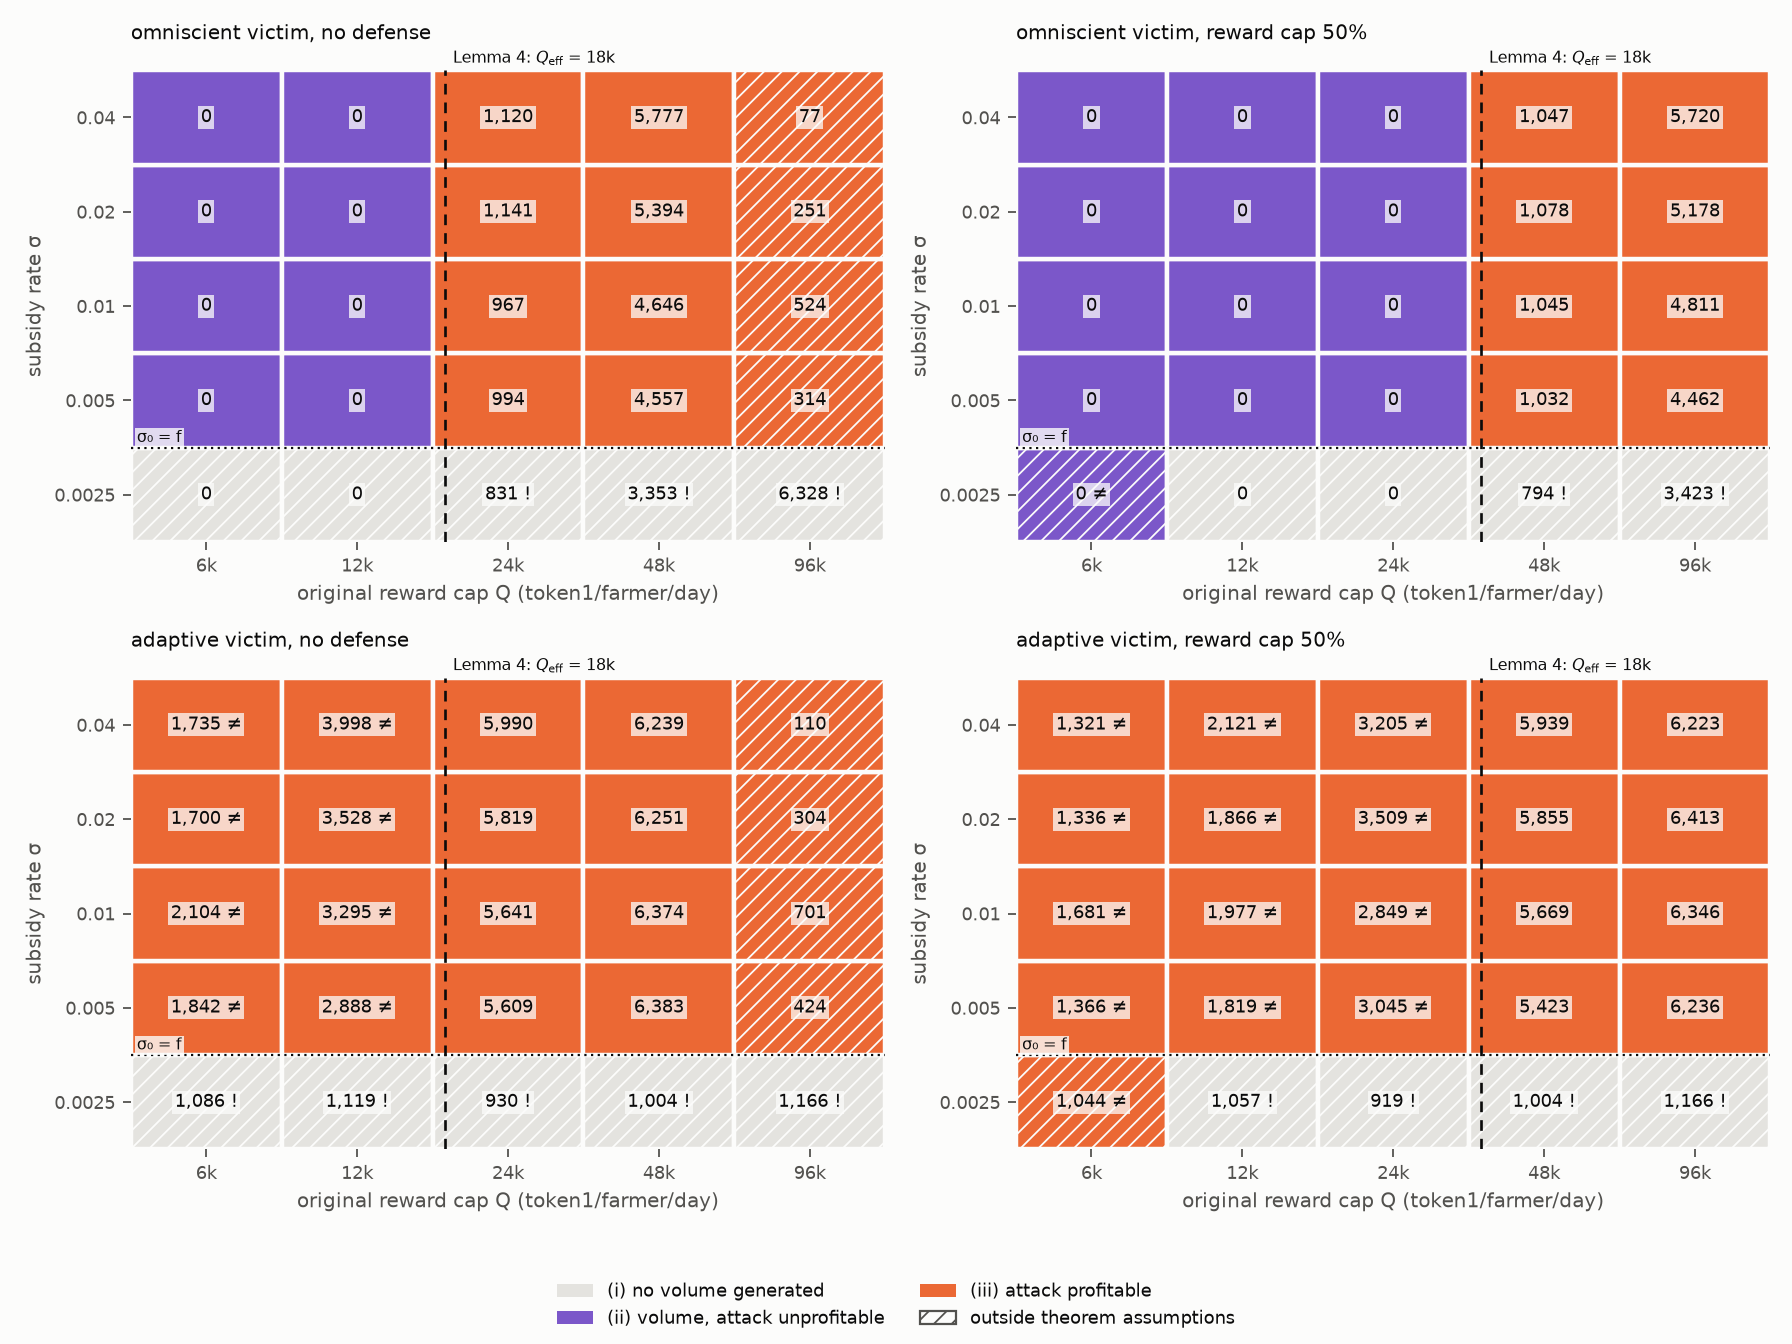
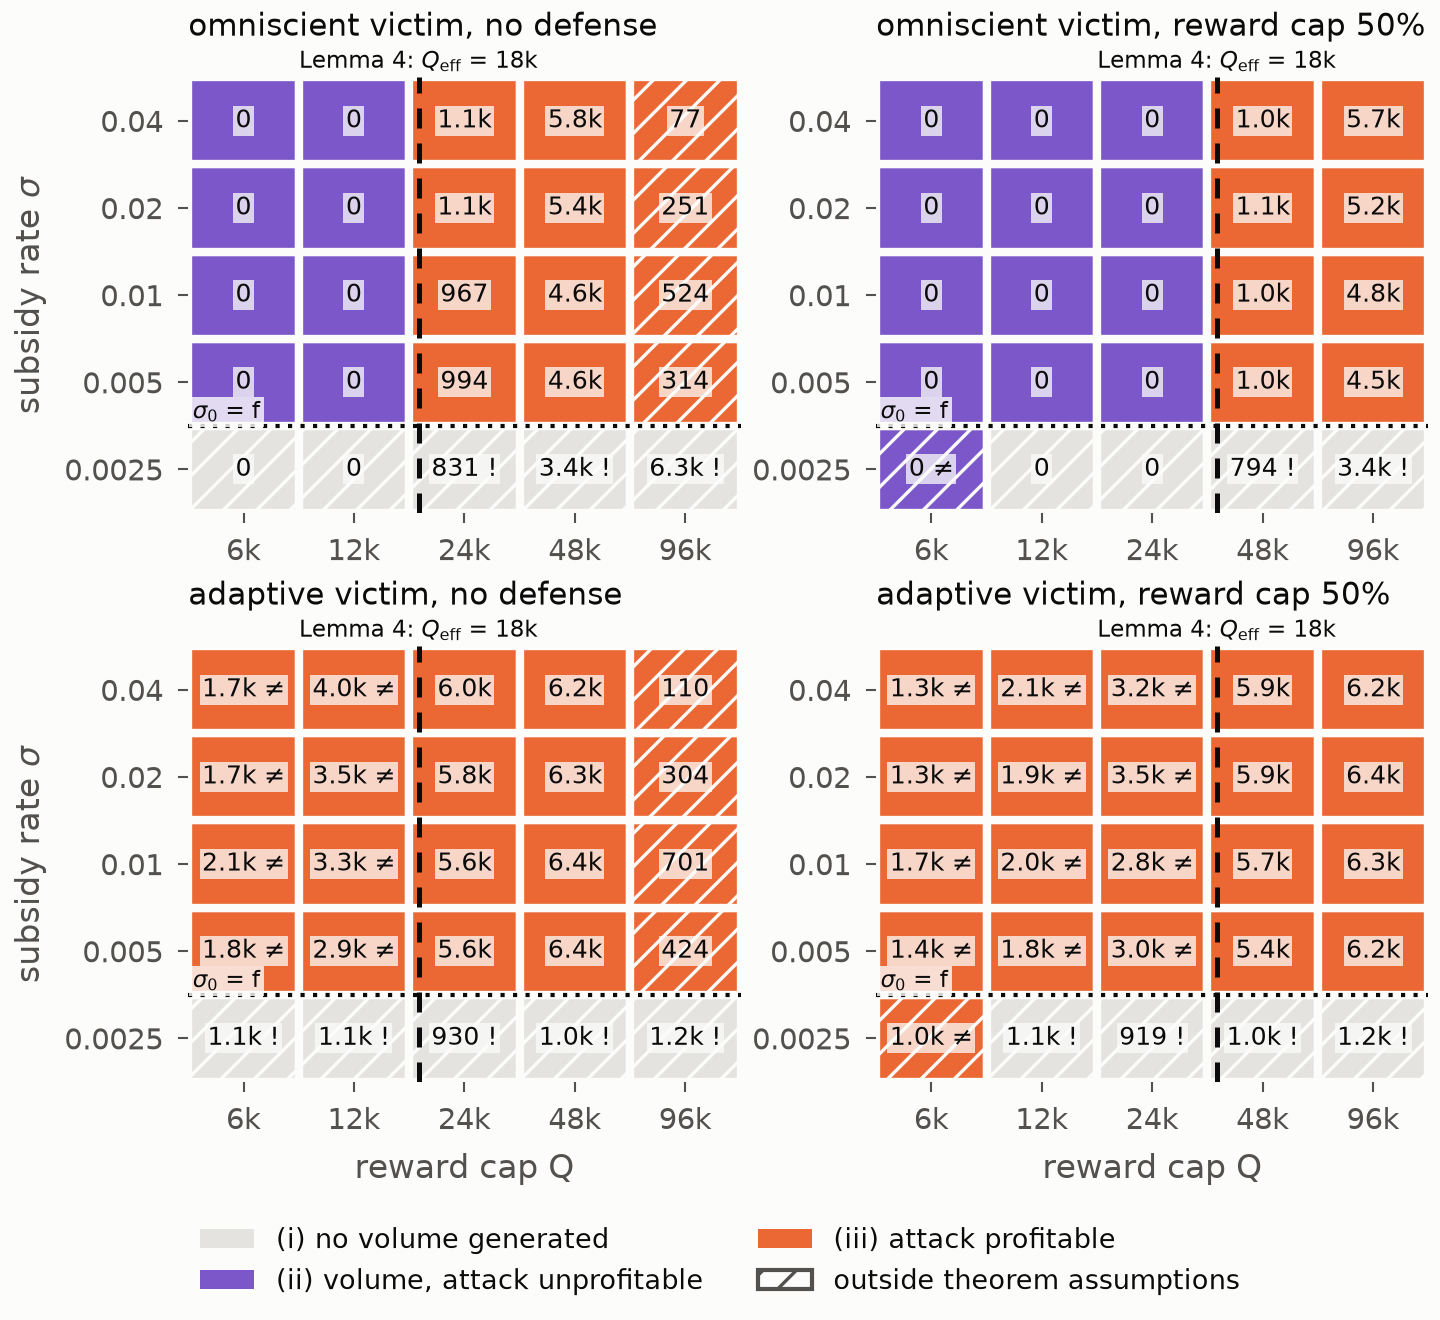
[B] Hình ba vùng theo khổ in; sửa số trợ cấp khi giữ tường 168 giờ (46–47%)

diff --git a/plots/hinh_gd2.py b/plots/hinh_gd2.py
@@ -294,7 +294,12 @@ def ve_ba_vung(bv: pd.DataFrame, path: str | Path, tieu_de: str = "") -> None:
     buộc hoặc GĐ2 giá rời tick); dấu ≠ = khác vùng lý thuyết; dấu ! = vùng (i) mà kẻ tấn công vẫn có lãi;
     vạch đứt = ranh giới Lemma 4 Q_eff = c_V·L_A/(f·n)."""
     vts, bps = ["omniscient", "adaptive"], [b for b in ("khong", "cap50") if b in set(bv["bp"])]
-    fig, axs = _hinh(len(vts), len(bps), (5.6 * len(bps), 4.2 * len(vts)), squeeze=False)
+    IN = H.IN
+    fig, axs = _hinh(len(vts), len(bps), (4.8, 4.4) if IN else (5.6 * len(bps), 4.2 * len(vts)), squeeze=False)
+
+    def _so(v: float) -> str:                                   # kiểu in: ≥ 1000 viết "5.8k" cho vừa ô
+        return f"{v / 1000:.1f}k" if IN and abs(v) >= 1000 else so_vn(v, 0)
+
     for i, vt in enumerate(vts):
         for j, bp in enumerate(bps):
             ax = axs[i, j]
@@ -305,36 +310,38 @@ def ve_ba_vung(bv: pd.DataFrame, path: str | Path, tieu_de: str = "") -> None:
                 ngoai = bool(r.get("ngoai_gia_dinh", False))
                 ax.add_patch(plt.Rectangle((b - 0.5, a - 0.5), 1, 1, facecolor=MAU_VUNG[r["vung"]], edgecolor=NEN,
                                            linewidth=2, hatch="///" if ngoai else None))
-                chu = (so_vn(r["loi"], 0) + ("" if r["khop_ly_thuyet"] else " ≠")
+                chu = (_so(r["loi"]) + ("" if r["khop_ly_thuyet"] else " ≠")
                        + (" !" if r["vung"] == "i_khong_KL" and r["loi"] > 0 else ""))
-                ax.text(b, a, chu, ha="center", va="center", fontsize=8,
-                        color=CHU, bbox=dict(facecolor=NEN, edgecolor="none", alpha=0.75, pad=1.2))
+                ax.text(b, a, chu, ha="center", va="center", fontsize=6 if IN else 8,
+                        color=CHU, bbox=dict(facecolor=NEN, edgecolor="none", alpha=0.75, pad=0.6 if IN else 1.2))
             # ranh giới Lemma 4: k_eff = k/r = 1 ⇔ Q = Q_ref·0,75/r, nội suy trên trục log Q
             k0 = g.iloc[0]
             q_nguong = k0["k"] * k0["Q"] / k0["r"]
             xq = np.interp(np.log(q_nguong), np.log(Qs), range(len(Qs)))
             ax.axvline(xq, color=CHU, linewidth=1.2, linestyle=(0, (4, 3)))
-            ax.text(xq + 0.05, len(sg) - 0.5 + 0.04, rf"Lemma 4: $Q_{{\mathrm{{eff}}}}$ = {q_nguong * k0['r'] / 1000:g}k", fontsize=7,
-                    color=CHU, va="bottom")
+            ax.text(xq if IN else xq + 0.05, len(sg) - 0.5 + 0.04, rf"Lemma 4: $Q_{{\mathrm{{eff}}}}$ = {q_nguong * k0['r'] / 1000:g}k", fontsize=5.5 if IN else 7,
+                    color=CHU, va="bottom", ha="center" if IN else "left")
             ax.axhline(0.5, color=CHU, linewidth=1.0, linestyle=(0, (1, 2)))
-            ax.text(-0.46, 0.52, "σ₀ = f", fontsize=7, color=CHU, ha="left", va="bottom",
+            ax.text(-0.46, 0.52, r"$\sigma_0$ = f", fontsize=5.5 if IN else 7, color=CHU, ha="left", va="bottom",
                     bbox=dict(facecolor=NEN, edgecolor="none", alpha=0.8, pad=0.8))
             ax.set_xlim(-0.5, len(Qs) - 0.5)
             ax.set_ylim(-0.5, len(sg) - 0.5)
             ax.set_xticks(range(len(Qs)), [f"{q / 1000:g}k" for q in Qs])
             ax.set_yticks(range(len(sg)), [so_vn(s) for s in sg])
-            ax.set_xlabel("original reward cap Q (token1/farmer/day)", color=CHU_PHU)
-            ax.set_ylabel("subsidy rate σ", color=CHU_PHU)
-            ax.tick_params(colors=CHU_PHU, labelsize=8)
+            ax.set_xlabel("original reward cap Q (token1/farmer/day)" if not IN else (
+                "reward cap Q" if i == len(vts) - 1 else ""), color=CHU_PHU, fontsize=8 if IN else None)
+            ax.set_ylabel(r"subsidy rate $\sigma$" if (IN and j == 0) or not IN else "", color=CHU_PHU,
+                          fontsize=8 if IN else None)
+            ax.tick_params(colors=CHU_PHU, labelsize=7 if IN else 8)
             for s in ax.spines.values():
                 s.set_visible(False)
             ax.set_title(f"{TEN_VICTIM[vt]}, {'no defense' if bp == 'khong' else 'reward cap 50%'}",
-                         loc="left", fontsize=9, color=CHU, pad=14)
+                         loc="left", fontsize=7.5 if IN else 9, color=CHU, pad=10 if IN else 14)
     h = [plt.Rectangle((0, 0), 1, 1, facecolor=MAU_VUNG[k], label=TEN_VUNG[k]) for k in MAU_VUNG]
     h.append(plt.Rectangle((0, 0), 1, 1, facecolor=NEN, edgecolor=CHU_PHU, hatch="///",
                            label="outside theorem assumptions"))
-    fig.legend(handles=h, loc="lower center", bbox_to_anchor=(0.5, 0.0), ncol=2, frameon=False, fontsize=8,
+    fig.legend(handles=h, loc="lower center", bbox_to_anchor=(0.5, 0.0), ncol=2, frameon=False, fontsize=6.5 if IN else 8,
                labelcolor=CHU)
-    fig.tight_layout(rect=(0, 0.08, 1, 1))
-    fig.savefig(path, dpi=DPI, facecolor=NEN)
+    fig.tight_layout(rect=(0, 0.09 if IN else 0.08, 1, 1), pad=0.4 if IN else 1.08)
+    fig.savefig(path, dpi=H.dpi(), facecolor=NEN)
     plt.close(fig)

diff --git a/plots/ve_gd2.py b/plots/ve_gd2.py
@@ -27,7 +27,8 @@ def main(gd2: str = "ket_qua/gd2", phien: str = "v4") -> list[Path]:
                    "(b) small-k region": pd.read_csv(bang / "danh_doi_knho.csv")}, f["pareto"])
     fm = pd.read_csv(bang / "danh_doi_farm.csv")
     ve_danh_doi_farm(fm[fm["farm_share"] > 0], f["danh_doi_farm"])
-    ve_ba_vung(pd.read_csv(bang / "ba_vung.csv"), f["ba_vung"])
+    with in_bai():
+        ve_ba_vung(pd.read_csv(bang / "ba_vung.csv"), f["ba_vung"])
     ve_q_sao(pd.read_csv(bang / "q_sao_vu.csv"), f["q_sao"])
     ve_q_sao(pd.read_csv(bang / "q_sao_vu_knho.csv"), f["q_sao_knho"])
     return list(f.values())

diff --git a/SYNC.md b/SYNC.md
@@ -28,7 +28,7 @@ Mỗi phiên **chỉ sửa mục của vai mình** (đọc lại file trước k
 - **Nhận định CH:** lợi nhuận tăng thêm của tấn công chỉ 2,4% paper ở bộ RQ1 (victim nhỏ: L_V/L_A ≈ 0,15 do k = c_V·L_A/(fV) ∈ [0,64; 0,95]). Phần lớn "lợi nhuận" là bán kho vào nền — RQ2 phải báo `excess`, không báo `paper`.
 - **Kiểm tra gần nhất:** 22/10 — toàn repo 302 qua.
 - **CH-11 (22/10): xong.** W15 xong (Đức chạy 22/10, 6.000 lượt, `ket_qua/gd2/bang_V/V_do_nhay.csv`): cửa sổ 72 giờ như cũ (cap05 −65%, 70% lượt còn nạn nhân); bỏ arbitrage: cap05 −68%, còn 50%; chỉ đếm lệnh mua: cap05 −78%, còn 30%, cap50 −59% (thay vì −31%); warn40 −94…−100% mọi cách; cửa sổ 168 giờ loại vì nạn nhân chỉ vào được ở giờ 168, đúng giờ rút tường. Kết luận "hạ trần không đuổi hết nạn nhân thích nghi" đứng, độ lớn phụ thuộc cách ước. W14 bổ sung từ phụ lục Zenodo 20422858 (Đức tải, file ở thư mục gốc đồ án): cả 29 tường rộng đúng 1 tick; 13 vụ có nạn nhân, 1–24 nạn nhân/vụ (trung vị 4); t_b − t_m < 24 giờ ở 9 vụ, ≥ 72 giờ ở 14 vụ, 100–180 giờ ở 6 vụ (quy đổi block) → tường 120 giờ của mô phỏng nằm giữa phân phối; vẫn không có L_A, Q, σ, kho theo vụ. Đã thay giới hạn (xi), thêm \bibitem lu2026zenodo. *Ghi chú cũ:* Phản biện còn mở (22/10, chia subagent): W3 + W4 xong (bài báo có đoạn "Phương pháp tra cứu", câu "trong phạm vi tra cứu", trích Belokon–Berezovskiy 2026); W1 xong một phần (Binance thông báo ZKJ/KOGE sập do chủ lớn rút thanh khoản và đổi luật Alpha Points từ 17/06/2025; nguồn đã mở: FAQ Binance, Odaily; bài đăng X của Binance không mở được; các nguồn mô tả bể hai phía, không xác nhận tường một tick; chi tiết `review/phan_bien_W1_W14.md`); W14 xong (bài gốc không có tham số từng vụ; lưới chỉ bao 7/29 vụ cạn 80–99%, tường 120 giờ ứng 12/29 vụ; ghi vào giới hạn xi); W15 đã cài (`VictimThichNghi(cach_uoc=...)`, `victim_H`, `quet_gd2 --V`, `metrics/chay_V.py`, `tests/agents/test_victim_uoc.py`), **chờ Đức chạy**: `$env:PYTHONIOENCODING="utf-8"; python -m scenarios.quet_gd2 --V --phien v5` (6.000 lượt, ~23 phút, → `ket_qua/gd2/tomtat_V_v5.csv`; bị ngắt thì chạy lại đúng lệnh) rồi `$env:PYTHONIOENCODING="utf-8"; python -m metrics.chay_V` (→ `ket_qua/gd2/bang_V/V_do_nhay.csv`). Trích dẫn: `02_Bao_cao_va_trinh_bay/trich_dan/NT547_trich_dan.bib`/.ris (24 mục, nhập vào Zotero), thư mục alphaXiv "NT547 – Trích dẫn bài báo" (5 bài arXiv); Zotero MCP báo lỗi khi gọi (ứng dụng chưa bật API cục bộ).
-- **CH-10 (22/10, Đức chọn G rồi F): xong 22/10.** Kết quả (`python -m metrics.chay_GF` → `ket_qua/gd2/bang_GF/`): G (phạt rút sớm, D = 168): không đổi lợi tăng thêm, khối lượng, trợ cấp, độ sập; trích của tường trung vị 810 / 589 token1 (toàn tri / thích nghi, 3–4% lãi tổng); lợi ròng nạn nhân +471 / +309 (toàn tri −20 → +341, thích nghi −275 → 0); D = 336: trích 1.827 / 1.283. Né: rút 10 lát → phần nạn nhân nhận thêm còn 132 / 222; giữ tường đủ 168 giờ → không bị phạt, lãi tổng còn +6–10% (không tính chi phí vốn), nền tảng trả thêm 46% trợ cấp. F (cận trên, chọn m theo trung vị lợi tăng thêm): không biện pháp, tường mỏng hơn đưa lợi toàn tri 361 → 898; dưới biện pháp kẻ tấn công chủ yếu chọn m = 0,25–0,5; toàn tri: warn15 −94 → −41%, cap50 −100 → −50%, warn40 −100 → −91%, cap05 vẫn −100%; thích nghi: warn40 −94 → −72%, cap05 −65 → −51%; thứ tự gần như giữ (warn40, cap05 đầu; trả trễ cuối); warn40 giờ mất 7–11% khối lượng. Chọn theo lãi tổng: m = 4 ở 5–13/30 vụ (không tính chi phí vốn) → không dùng. Đã viết vào bài báo (RQ2: hai đoạn mới, Bảng 2, tóm tắt, thông điệp 4, giới hạn i, kết luận), kịch bản, `muc7`, tổng kết. *Lệnh đã chạy:* Từ `04_Simulator/`, hai cửa sổ PowerShell chạy song song được: (1) `$env:PYTHONIOENCODING="utf-8"; python -m scenarios.quet_gd2 --phat --phien v5` → `ket_qua/gd2/tomtat_phat_v5.csv` (3.600 lượt, ~20 phút); (2) `$env:PYTHONIOENCODING="utf-8"; python -m scenarios.quet_gd2 --F --phien v5` → `ket_qua/gd2/tomtat_F_v5.csv` (21.000 lượt, ~90 phút). Bị ngắt thì chạy lại đúng lệnh, phần đã xong được bỏ qua. Số sơ bộ bản `--nhanh` (2 vụ, 1 seed; chưa kết luận): G cửa sổ 168 trích của tường ~540–640 token1, nạn nhân toàn tri từ lỗ ròng thành lời ròng; rút 10 lát làm phần nạn nhân nhận giảm; giữ tường đủ 168 giờ thì không bị phạt và kẻ tấn công còn lời hơn (mô hình không tính chi phí giữ); nạn nhân thích nghi tự bị phạt khi rút sớm. F: với nạn nhân toàn tri kẻ tấn công làm tường mỏng hơn (m = 0,25–0,5) để kéo nạn nhân vào; chọn theo lãi tổng thì luôn ra m = 4 vì mô hình không tính chi phí vốn → phân tích chính dùng lợi tăng thêm.
+- **CH-10 (22/10, Đức chọn G rồi F): xong 22/10.** Kết quả (`python -m metrics.chay_GF` → `ket_qua/gd2/bang_GF/`): G (phạt rút sớm, D = 168): không đổi lợi tăng thêm, khối lượng, trợ cấp, độ sập; trích của tường trung vị 810 / 589 token1 (toàn tri / thích nghi, 3–4% lãi tổng); lợi ròng nạn nhân +471 / +309 (toàn tri −20 → +341, thích nghi −275 → 0); D = 336: trích 1.827 / 1.283. Né: rút 10 lát → phần nạn nhân nhận thêm còn 132 / 222; giữ tường đủ 168 giờ → không bị phạt, lãi tổng còn +6–10% (không tính chi phí vốn), nền tảng trả thêm 46–47% trợ cấp. F (cận trên, chọn m theo trung vị lợi tăng thêm): không biện pháp, tường mỏng hơn đưa lợi toàn tri 361 → 898; dưới biện pháp kẻ tấn công chủ yếu chọn m = 0,25–0,5; toàn tri: warn15 −94 → −41%, cap50 −100 → −50%, warn40 −100 → −91%, cap05 vẫn −100%; thích nghi: warn40 −94 → −72%, cap05 −65 → −51%; thứ tự gần như giữ (warn40, cap05 đầu; trả trễ cuối); warn40 giờ mất 7–11% khối lượng. Chọn theo lãi tổng: m = 4 ở 5–13/30 vụ (không tính chi phí vốn) → không dùng. Đã viết vào bài báo (RQ2: hai đoạn mới, Bảng 2, tóm tắt, thông điệp 4, giới hạn i, kết luận), kịch bản, `muc7`, tổng kết. *Lệnh đã chạy:* Từ `04_Simulator/`, hai cửa sổ PowerShell chạy song song được: (1) `$env:PYTHONIOENCODING="utf-8"; python -m scenarios.quet_gd2 --phat --phien v5` → `ket_qua/gd2/tomtat_phat_v5.csv` (3.600 lượt, ~20 phút); (2) `$env:PYTHONIOENCODING="utf-8"; python -m scenarios.quet_gd2 --F --phien v5` → `ket_qua/gd2/tomtat_F_v5.csv` (21.000 lượt, ~90 phút). Bị ngắt thì chạy lại đúng lệnh, phần đã xong được bỏ qua. Số sơ bộ bản `--nhanh` (2 vụ, 1 seed; chưa kết luận): G cửa sổ 168 trích của tường ~540–640 token1, nạn nhân toàn tri từ lỗ ròng thành lời ròng; rút 10 lát làm phần nạn nhân nhận giảm; giữ tường đủ 168 giờ thì không bị phạt và kẻ tấn công còn lời hơn (mô hình không tính chi phí giữ); nạn nhân thích nghi tự bị phạt khi rút sớm. F: với nạn nhân toàn tri kẻ tấn công làm tường mỏng hơn (m = 0,25–0,5) để kéo nạn nhân vào; chọn theo lãi tổng thì luôn ra m = 4 vì mô hình không tính chi phí vốn → phân tích chính dùng lợi tăng thêm.
 - **CH-9 → B (20/10; xong 22/10):** `L_mean_post` lấy từ `liquidity_active_after` nên tính cả vị thế nạn nhân (và kẻ tấn công) còn trong dải; nạn nhân không rút khi giá ra khỏi dải (`agents/victim.py`). Cần chỉ số thanh khoản Post loại vị thế nạn nhân/kẻ tấn công. Log GĐ2 không lưu (chỉ `tomtat_*_v4.csv`) → phải chạy lại GĐ2; chốt định nghĩa trước khi xem kết quả, đo thời gian bằng `--nhanh`. Đồng thời nên lưu phí nạn nhân đã thu (`victim_loss` đã tính `fees` nhưng chưa ghi vào tóm tắt) để đo lợi nhuận ròng của nạn nhân.
   - **Đã cài (20/10, Đức duyệt gộp với cải tiến A):** `metrics.indicators.liquidity_excluding` (L đang hoạt động bỏ vai attacker/victim; `bo_vai=()` trùng `L_active`, có test), `metrics.pnl.victim_fees` (phí cả kịch bản; cột `fees` cũ của `victim_loss` gần như luôn 0 vì bộ chạy chỉ collect ở bước cuối), cột mới trong `summarize`: `L_khac_mean_before/post`, `victim_E_full`, `victim_fees`, `victim_net` = phí − E_full; `metrics.gd2.CHI_SO_V3` thêm ba chỉ số. Cải tiến A: `scenarios.quet_gd2 --bien_the f001` (phí 0,01%, giữ k và σ/f, dùng `scenarios.batch.BIEN_THE`), `--phien v5` đặt tên file; `metrics.chay_gd2 --phien v5|f001_v5` dựng bảng bộ chính. Test: `tests/metrics/test_ch9.py`. Bản `--nhanh` (2 vụ, 64 lượt) khớp v4 ở mọi cột cũ; ở 2 vụ đó `L_khac_mean_post` = `L_mean_post`, tức nghi vấn W11 có thể sai, chờ bản đầy đủ.
   - **Kết quả (22/10, Đức đã chạy hai bộ v5; bảng ở `ket_qua/gd2/bang_v5/`, `bang_f001_v5/`):** nghi vấn W11 sai: L_khac_mean_post = L_mean_post ở cả 9.270 lượt có sập; warn40 giảm L Post vì cú sập sâu hơn (độ sập trung vị −18% → −40% với nạn nhân thích nghi). Nạn nhân lỗ ròng (tính cả phí) ở 57% lượt toàn tri, 66% thích nghi (trung vị −20 / −275 token1). Bậc phí 0,01%: % thay đổi lệch ≤ 7 điểm (lợi tăng thêm ≤ 1,2), thứ tự biện pháp giữ nguyên; tỷ số lợi tăng thêm / trợ cấp thành 2,7× / 14× (vì trợ cấp ∝ σ, giữ σ/f). Đã sửa bài báo, kịch bản, bản nháp mục 7, tổng kết.
@@ -126,6 +126,7 @@ Mỗi phiên **chỉ sửa mục của vai mình** (đọc lại file trước k
 
 | Thời gian | Vai | Việc | Test |
 |---|---|---|---|
+| 23/10/2026 | B | Hình ba vùng vẽ lại theo khổ in (`in_bai`), đưa lại vào bài báo (18 trang). Chốt lần 6 | toàn repo 306 qua |
 | 22/10/2026 | B | Vẽ lại mọi hình: tiếng Anh, bỏ tiêu đề/chú thích trong hình, mathtext, hết chồng chữ; 4 hình bài báo theo khổ in LNCS (`in_bai`). Bài báo rút còn 15 trang. Chốt lần 5 | toàn repo 306 qua |
 | 22/10/2026 | B | Kết quả W15 (`tomtat_V_v5.csv`, `bang_V/`) và W14 (Zenodo) đã viết vào bài báo (24 trang); chốt lần 4 | toàn repo 306 qua |
 | 22/10/2026 | CH (+B, C qua subagent) | W15: cách ước V̂ của nạn nhân thích nghi (`cach_uoc`, `victim_H`), quét `--V`, `metrics/chay_V.py`; chờ Đức chạy (CH-11). Chốt lần 3 | toàn repo 306 qua |

diff --git a/ket_qua/ban_nhap/muc7_ket_qua_RQ2.md b/ket_qua/ban_nhap/muc7_ket_qua_RQ2.md
@@ -160,7 +160,7 @@ Giả định được kiểm bằng cách chạy lại pha Prep (`luoi_gia_dinh
 
 ### Cải tiến F và G (22/10/2026)
 
-Bộ quét: `quet_gd2 --F --phien v5` (21.000 lượt) và `--phat --phien v5` (3.600 lượt); bảng `ket_qua/gd2/bang_GF/` (`python -m metrics.chay_GF`). G (phạt rút sớm, D = 168): không đổi lợi tăng thêm, khối lượng, trợ cấp, độ sập; trích của tường trung vị 810 / 589 token1 (toàn tri / thích nghi, 3–4% lãi tổng); lợi ròng nạn nhân +471 / +309 (toàn tri −20 → +341, thích nghi −275 → 0); D = 336: trích 1.827 / 1.283. Né: rút 10 lát → phần nạn nhân nhận thêm còn 132 / 222; giữ tường đủ 168 giờ → không bị phạt, lãi tổng còn +6–10% (không tính chi phí vốn), nền tảng trả thêm 46% trợ cấp. F (cận trên, chọn m theo trung vị lợi tăng thêm): không biện pháp, tường mỏng hơn đưa lợi toàn tri 361 → 898; dưới biện pháp kẻ tấn công chủ yếu chọn m = 0,25–0,5; toàn tri: warn15 −94 → −41%, cap50 −100 → −50%, warn40 −100 → −91%, cap05 vẫn −100%; thích nghi: warn40 −94 → −72%, cap05 −65 → −51%; thứ tự gần như giữ (warn40, cap05 đầu; trả trễ cuối); warn40 giờ mất 7–11% khối lượng. Chọn theo lãi tổng: m = 4 ở 5–13/30 vụ (không tính chi phí vốn) → không dùng.
+Bộ quét: `quet_gd2 --F --phien v5` (21.000 lượt) và `--phat --phien v5` (3.600 lượt); bảng `ket_qua/gd2/bang_GF/` (`python -m metrics.chay_GF`). G (phạt rút sớm, D = 168): không đổi lợi tăng thêm, khối lượng, trợ cấp, độ sập; trích của tường trung vị 810 / 589 token1 (toàn tri / thích nghi, 3–4% lãi tổng); lợi ròng nạn nhân +471 / +309 (toàn tri −20 → +341, thích nghi −275 → 0); D = 336: trích 1.827 / 1.283. Né: rút 10 lát → phần nạn nhân nhận thêm còn 132 / 222; giữ tường đủ 168 giờ → không bị phạt, lãi tổng còn +6–10% (không tính chi phí vốn), nền tảng trả thêm 46–47% trợ cấp. F (cận trên, chọn m theo trung vị lợi tăng thêm): không biện pháp, tường mỏng hơn đưa lợi toàn tri 361 → 898; dưới biện pháp kẻ tấn công chủ yếu chọn m = 0,25–0,5; toàn tri: warn15 −94 → −41%, cap50 −100 → −50%, warn40 −100 → −91%, cap05 vẫn −100%; thích nghi: warn40 −94 → −72%, cap05 −65 → −51%; thứ tự gần như giữ (warn40, cap05 đầu; trả trễ cuối); warn40 giờ mất 7–11% khối lượng. Chọn theo lãi tổng: m = 4 ở 5–13/30 vụ (không tính chi phí vốn) → không dùng.
 
 ### Các lần chạy trước
 - **v3:** cùng thiết kế; phản thực đỡ giá cho cú bán thẳng.
